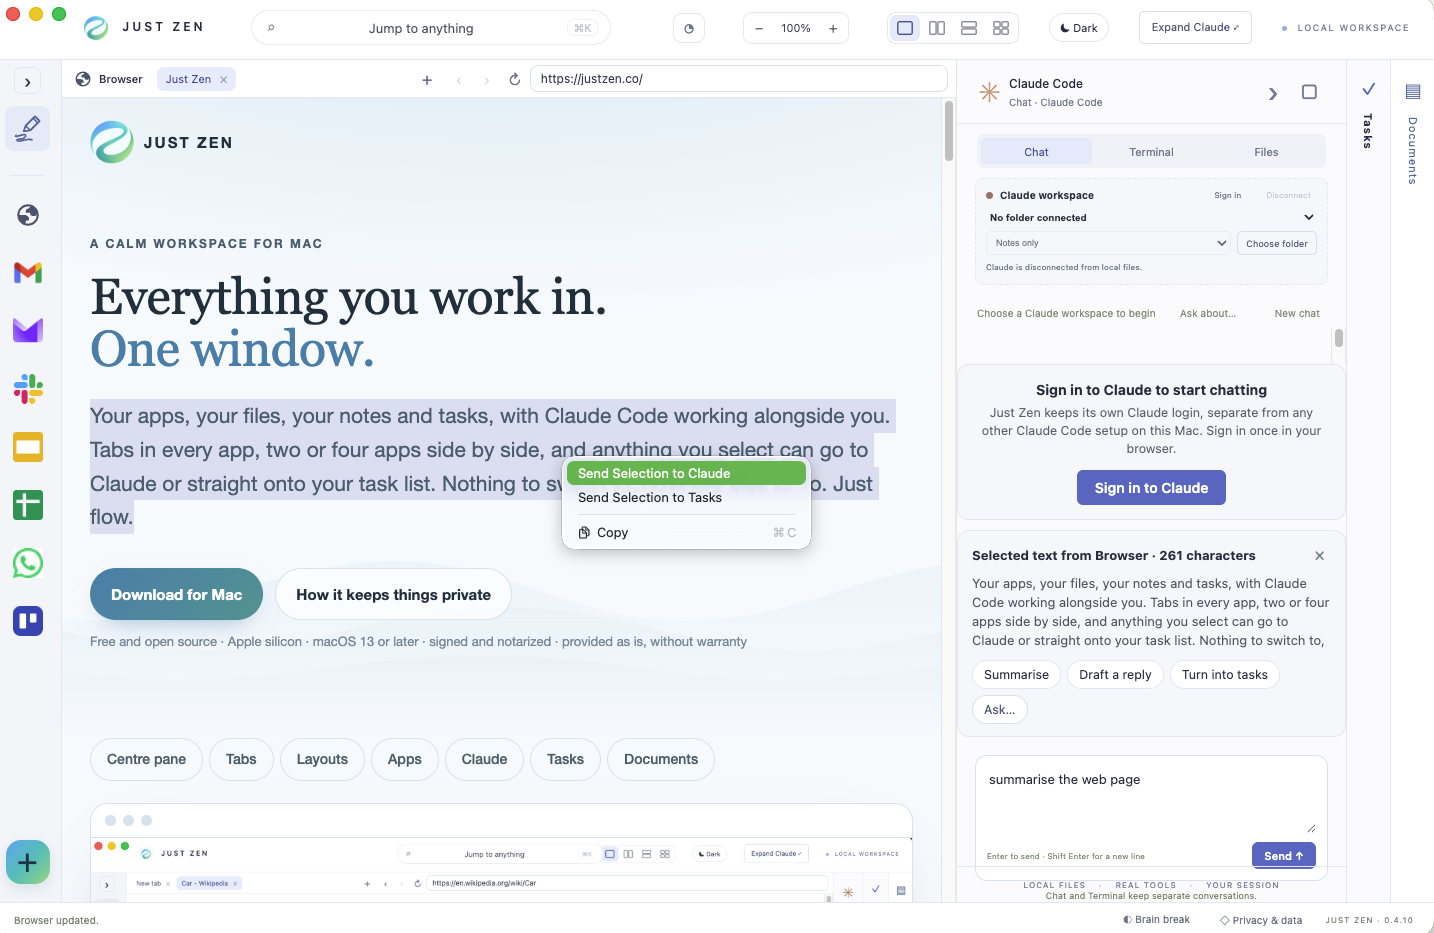
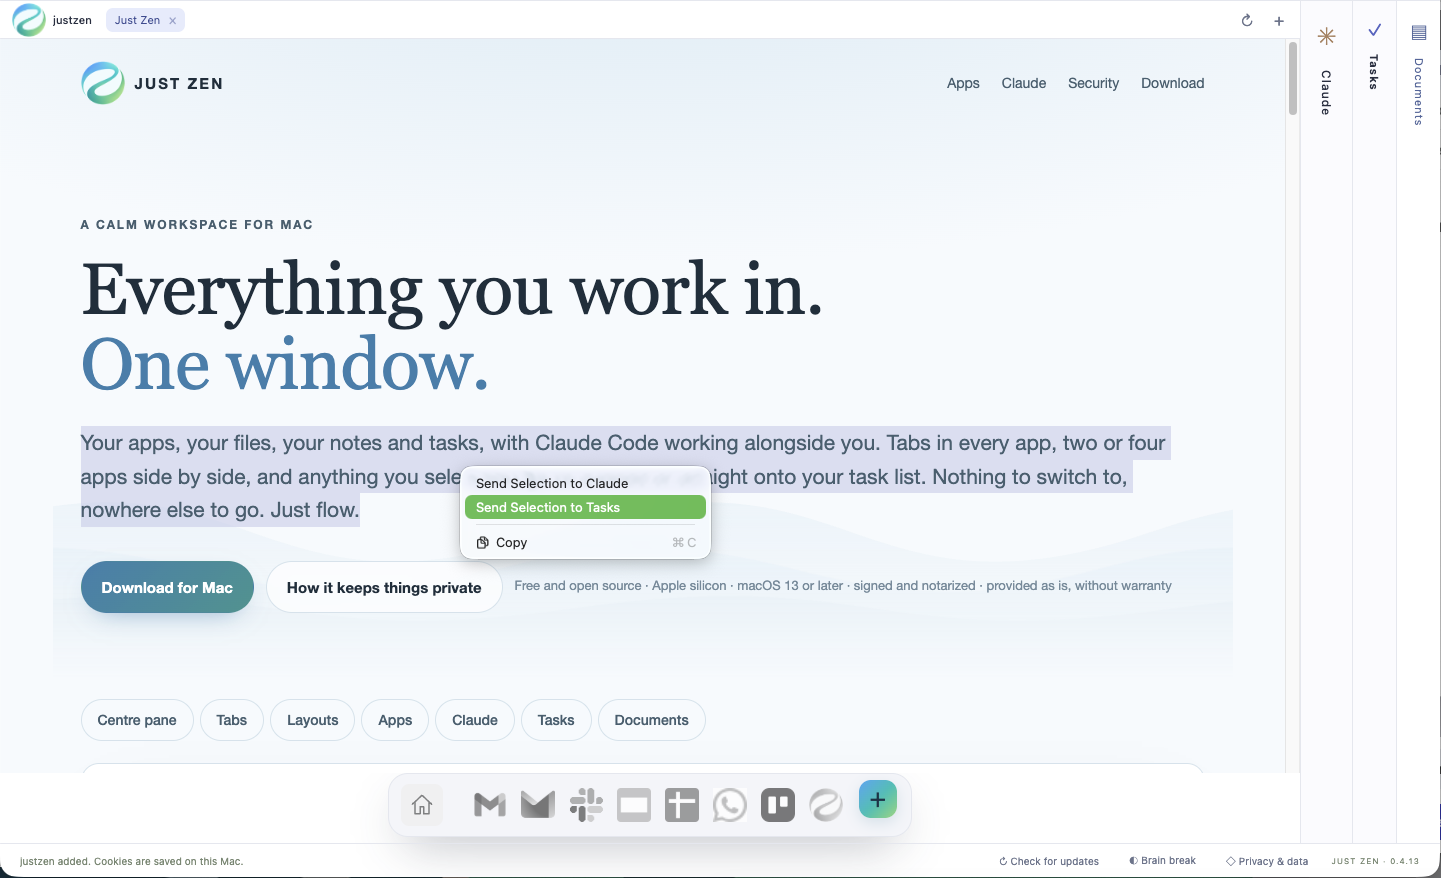
Website: new hero with the dock and connected copy; tour regions retargeted

diff --git a/docs/index.html b/docs/index.html
@@ -23,8 +23,8 @@
 <section class="hero">
   <div>
     <div class="eyebrow">A calm workspace for Mac</div>
-    <h1 style="margin-top:18px">Everything you work in.<br><span class="stroke">One window.<svg viewBox="0 0 300 24" preserveAspectRatio="none" aria-hidden="true"><path d="M4 16 C 60 6, 120 20, 180 10 S 270 12, 296 8"/></svg></span></h1>
-    <p class="lede">Your apps, your files, your notes and tasks, with Claude Code working alongside you. Tabs in every app, two or four apps side by side, and anything you select can go to Claude or straight onto your task list. Nothing to switch to, nowhere else to go. Just flow.</p>
+    <h1 style="margin-top:18px">Every app you use, in one place.<br><span class="stroke">All connected.<svg viewBox="0 0 300 24" preserveAspectRatio="none" aria-hidden="true"><path d="M4 16 C 60 6, 120 20, 180 10 S 270 12, 296 8"/></svg></span></h1>
+    <p class="lede">Gmail, Slack, Teams, Notion, any website: in one window, side by side, and talking to each other. Select anything and send it to Claude or straight onto your task list. Open a link without leaving what you were reading. Every task and every answer remembers where it came from and takes you back. Nothing to switch to, nowhere else to go. Just flow.</p>
     <div class="cta">
       <a class="btn btn-primary" href="https://github.com/kierankeene122/just-zen/releases/latest/download/Just-Zen-arm64.dmg" download>Download for Mac</a>
       <a class="btn btn-secondary" href="security.html">How it keeps things private</a>
@@ -37,7 +37,7 @@
   <div class="tour-head"><div class="tabs" role="tablist" aria-label="Parts of the window"></div></div>
   <div class="frame">
     <div class="bar"><i></i><i></i><i></i></div>
-    <div class="pic"><img src="hero.png?v=3" alt="Just Zen: apps down the left, a browser in the centre with text selected and a right-click menu offering Send Selection to Claude and Send Selection to Tasks, and the selection sitting in the Claude pane on the right with Summarise, Draft a reply and Turn into tasks actions" width="1434" height="933">
+    <div class="pic"><img src="hero.png?v=4" alt="Just Zen: a page open in the centre with text selected and a right-click menu offering Send Selection to Claude and Send Selection to Tasks, the app dock floating along the bottom, and the Claude, Tasks and Documents rails on the right" width="1441" height="878">
     <div class="spot" aria-hidden="true" hidden></div></div>
   </div>
   <div class="caption" aria-live="polite"><b></b><p></p></div>
@@ -46,13 +46,13 @@
 (()=>{
   // Regions are percentages of the screenshot, so the highlight lands on the same part at any size.
   const stops=[
-    ['Centre pane',{x:4.3,y:6.5,w:62,h:90},'Whatever you are working in sits in the centre: a web app, the whiteboard, your notes or a document. Select any text and send it to Claude or straight to your tasks.'],
-    ['Tabs',{x:4.3,y:6.5,w:62,h:4.6},'Every app has its own tabs; browsers get an address bar too. ⌘T opens a tab, ⌘W closes it, and the ↻ reloads.'],
-    ['Layouts',{x:61,y:0.8,w:10.6,h:4.8},'Four buttons in the header split the centre into one, two or four apps, and the − 100% + beside them zooms the app you are looking at.'],
-    ['Apps',{x:0,y:6.5,w:4.3,h:90},'Gmail, Slack, Teams and any website you add sit down the left, each with its own login. Add as many separate browsers as you need and group related apps behind one icon.'],
-    ['Claude',{x:66.8,y:6.5,w:27.4,h:90},'Claude Code lives in the right-hand pane. Selected text lands here with one-click actions, and "Ask about…" puts any open tab in front of it without selecting a thing.'],
-    ['Tasks',{x:94.2,y:6.5,w:2.9,h:90},'Your task list slides out from the right rail and stays one click away. Select text anywhere and press ⌘⇧T to make it a task.'],
-    ['Documents',{x:97.1,y:6.5,w:2.9,h:90},'Open PDFs and Word files beside your apps, annotate them and save a copy, without leaving the window.']
+    ['Centre pane',{x:0,y:4.6,w:90,h:82},'Whatever you are working in sits in the centre: a web app, the whiteboard, your notes or a document. Split it into two or four apps when you need them together.'],
+    ['Tabs',{x:0,y:0,w:90,h:4.6},'Every app has its own tabs; browsers get an address bar. ⌘T opens one, ⌘W closes it, and links open in a Quick Look drawer instead of taking over.'],
+    ['Apps',{x:26.5,y:87.5,w:37.5,h:9},'Your apps live in a floating dock along the bottom, greyscale until you hover. Add any of a hundred apps, any website, separate browsers per client, or a group behind one icon.'],
+    ['Send anywhere',{x:31.5,y:53,w:18,h:11},'Select text in any app and right-click: send it to Claude, or straight onto your task list. The task remembers where it came from.'],
+    ['Claude',{x:90.3,y:0,w:3.4,h:96},'Claude Code lives in the right-hand rail. Selected text lands there with one-click actions, and its replies can add tasks, pin notes to the whiteboard and open links.'],
+    ['Tasks',{x:93.7,y:0,w:3.3,h:96},'Your task list slides out from the right rail and stays one click away. Each task keeps a ↩ link back to the tab it came from.'],
+    ['Documents',{x:97,y:0,w:3,h:96},'Open PDFs and Word files beside your apps, annotate them and save a copy, without leaving the window.']
   ];
   const tabs=document.querySelector('#tour .tabs'),spot=document.querySelector('#tour .spot'),title=document.querySelector('#tour .caption b'),text=document.querySelector('#tour .caption p');
   let current=0;
